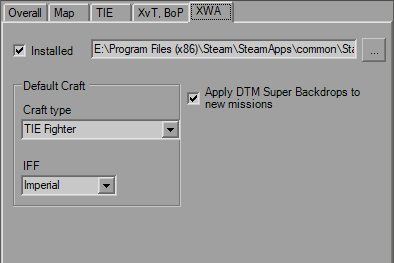
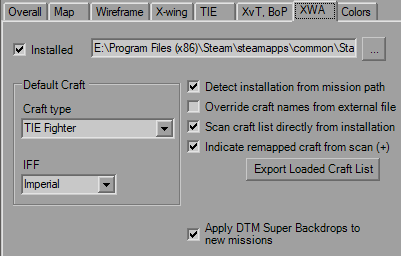
help file stuff

Changed region(s): [[0.0, 0.0, 1.0, 1.0], [0.4569, 0.8438, 0.9137, 0.9688], [0.0305, 0.1562, 0.1827, 0.2188]]

diff --git a/help file/pages/main/opt.html b/help file/pages/main/opt.html
@@ -8,6 +8,7 @@
 <ul>
 <li><a href="#overall">Overall</a>
 <li><a href="#map">Map</a>
+<li><a href="#wireframe">Wireframe</a>
 <li><a href="#xw">Xwing</a>
 <li><a href="#tie">TIE</a>
 <li><a href="#xvt">XvT/BoP</a>
@@ -21,7 +22,7 @@ This is where you control some of the defaults and global settings used in YOGEM
 <h3><a name="overall" class="anchor">Overall</a></h3>
 This tab is for YOGEME global behaviours. The <i>Startup</i> panel on the left defines if you see the initial windows to select a platform (default) or launch directly into whichever platform/mission you had open last. If launching the mission doesn't work, it will try launch the last platform.<br><br>
 
-The checkboxes all default to checked. The first one will disable editing on a platform if it's not installed, since you can't test what you don't have, so I intentionally discourage you from touching it. In the event that you have none of the platforms installed, this will automatically uncheck the first time you run YOGEME and you can edit everything. YOGEME will detect normal installations as well as those on 64-bit systems up to Windows 10 using the MSI installers from <a href="http://www.markusegger.at/Software/Games.aspx">Markus Egger</a>, as well as Steam installations.<br><br>
+The checkboxes all default to checked. The first one will disable editing on a platform if it's not installed, since you can't test what you don't have, so I intentionally discourage you from touching it. In the event that you have none of the platforms installed, this will automatically uncheck the first time you run YOGEME and you can edit everything. YOGEME will detect normal installations as well as those on 64-bit systems up to Windows 10 using the MSI installers from <a href="http://www.markusegger.at/Software/Games.aspx">Markus Egger</a>and Steam installations.<br><br>
 
 The next two boxes are your typical annoying "Are you sure you want to?" boxes that I'm betting you'll disable anyway. The <i>Verify</i> box and field at the bottom will decide if the mission will be run through my MissionVerify program every time you save. If you don't want this, that's fine, you can run it from the toolbar and menu whenever you want. If you have something else that you want to screen your missions, you can stick anything here you want, really. What my MissionVerify does is checks the file for common errors and other issues that can render it unplayable or unwinnable. Examples are Global Goals with "* AND FALSE" set, no player craft, mission limits exceeded (which shouldn't be an issue here), no briefing (not required, but you should), etc. It'll give you a list of warnings and errors and you can fix/ignore what you will. Made it for easy checking of missions submitted to the GE but also a good check for anyone making missions.<br><br>
 
@@ -31,7 +32,11 @@ The last two check boxes were added in v1.3. One simply uses the Recent Director
 
 <h3><a name="map" class="anchor">Map</a></h3>
 <p align=center><img src="../../images/Opt-Map.png"></p>
-A couple options that can be set at the Map Dialog, but set for defaults here.<br>
+A couple options that can be set at the Map Dialog, but set for defaults here. The Zoom setting is the percentage of the current zoom level that increments when using the mousewheel.<br>
+
+<h3><a name="wireframe" class="anchor">Wireframe</a></h3>
+<p align=center><img src="../../images/Opt-wireframe.png"></p>
+New in 1.7 is the ability to display wireframes in the Map, so along with that are several ways to control it. There's the overall enable/disable option to start, then two options that control how small items are shown. The first one will display the craft icon instead of loading the wireframe if the ship is below the given size, and the second one is the smallest that a mesh will be drawn before it becomes a fixed size and is treated like an icon. To the right of that is a list of all mesh types than can be displayed. I would suggest not changing these, as the default include all of the major structures but remove small meshed such as weapons and other systems. While it would be more detailed, it would be slower and each model would appear more cluttered. If you do decide to mess with it, there's a button to restore the default selections.<br><br>
 
 <h3><a name="xw" class="anchor">Xwing</a></h3>
 <p align=center><img src="../../images/Opt-XW.png"></p>
@@ -41,7 +46,9 @@ Same as TIE.<br>
 <p align=center><img src="../../images/Opt-TIE.png"></p>
 The platform tabs primarily exist to control the default new FlightGroup and the platform installation directory. You can fake platform installations if you have the appropriate support files in the correct directory structure at this location (like BATTLE#.LFD files and the required files to support the galaxy image). If you do this, YOGEME will not be able to auto-detect the fake install should your settings be reset.<br><br>
 
-If you are using a custom shiplist, they will also be reflected here.<br>
+If you are using a custom shiplist, they will also be reflected here.<br><br>
+
+The "Detect installation" option for each platform will have YOGEME assume the mission file is in a valid MISSION (or appropriate) directory for the platform, and use that location to attempt loading the wireframes in the Map. The "Override" option loads the external "craft_data_*.txt" files for craft information.<br><br>
 
 <h3><a name="xvt" class="anchor">XvT/BoP</a></h3>
 <p align=center><img src="../../images/Opt-XvT.png"></p>
@@ -49,7 +56,7 @@ Same as TIE, but adds in the additional briefing waypoints you can activate by d
 
 <h3><a name="xwa" class="anchor">XWA</a></h3>
 <p align=center><img src="../../images/Opt-XWA.png"></p>
-The only special item here is the option to automatically apply DTM Super Backdrops to missions by default. This will only be available if the installation of DSB is detected.<br>
+Two new options, the "Scan" option will read the installation itself for the installed craft, helpful for detected mods. The option following that will mark modded craft with a "+" in lists, followed by a button to export the currently installed craft list. There is also the option to automatically apply DTM Super Backdrops to missions by default. This will only be available if the installation of DSB is detected.<br>
 
 <h3><a name="clr" class="anchor">Colors</a></h3>
 <p align=center><img src="../../images/Opt-colors.png"></p>

diff --git a/help file/pages/main/map.html b/help file/pages/main/map.html
@@ -8,12 +8,16 @@
 <p align=center><img src="../../images/Map.png"></p>
 The Map Dialog is the visual interface of placing FlightGroup Waypoints.  From here start locations, flight paths and the briefing locations can be viewed and moved. This is one of the few resizable windows in YOGEME, it can also be maximized for better viewing.<br><br>
 
-By default, only the first Start Point will be visible when you open the map. Additional waypoints can be set in the <a href="opt.html">Options Dialog</a> as defaults.  Icons are color-coded according to their IFF and are <u>not</u> size-relative. On this map an ISD looks the same size as a TIE, so check placements in-game.  The initial view will be <i>X-Y</i> top view, the upper right will allow you to view from the "side" and "front" of the mission space.  Use the checkboxes on the right-hand side to show/hide additional waypoints. Selecting the <i>BRF</i> waypoint (not available in XWA) will hide all others. The disabled checkboxes will activate according to platform.<br><br>
+By default, only the first Start Point will be visible when you open the map. Additional waypoints can be set in the <a href="opt.html">Options Dialog</a> as defaults.  Craft are color-coded according to their IFF and wireframes are shown at their correct size/orientation unless it would be too small and it falls below a threshold that can also be set in the Options dialog. Another option can set small craft below a certain size to also display as icons instead of wireframe.  Additional colors are used on larger models for meshes designated as Hangars (white) or Docking/Landing Platforms (yellow) with an example below.<br>
+<p align=center><img src="../../images/Map-Mesh.png"></p>
+
+The initial view will be <i>X-Y</i> top view, the upper right will allow you to view from the "side" and "front" of the mission space.  Use the checkboxes on the right-hand side to show/hide additional waypoints. Selecting the <i>BRF</i> waypoint (not available in XWA) will hide all others. The disabled checkboxes will activate according to platform. If the view is too cluttered, you can select a Flightgroup on the left to hide it, or left-click the icon/wireframe (or box select) and select it in the popup.<br>
+<p align=center><img src="../../images/Map-Hide.png"></p>
 
 To move around the map, right-click and drag.  The mouse wheel will zoom the map in and out in addition to the slider. Middle-click will reset the map to default location (0, 0) and zoom (40). Click and drag an icon/WP to move it. The coordinates of your mouse pointer updates as you move over the map.<BR>
 Hit the "Help" button for more control details, as well as the usage of the filters to show/hide Flightgroups.<BR>
 
 <p align=center><img src="../../images/Map-Trace.png"></p>
-The image above shows the Traces ability. This will connect all enabled WPs. Solid lines connect <i>SP1</i> to the waypoints, and a dashed line connects the last WP used to the <i>HYP</i> point. Unselecting the <i>Tags</i> of <i>Distance</i> checkboxes hide the words near icons and waypoints.
+The image above shows the Traces ability. This will connect all enabled WPs. Solid lines connect <i>SP1</i> to the waypoints, and a dashed line connects the last WP used to the <i>HYP</i> point. Unselecting the <i>Tags</i> or <i>Distance</i> checkboxes hide the words near icons and waypoints.
 </body>
 </html>

diff --git a/help file/pages/main/forms.html b/help file/pages/main/forms.html
@@ -8,7 +8,7 @@
 <p align=center><img src="../../images/Forms.png"></p>
 Each formation is shown from two different views with TIE Interceptors so you can understand its orientation. The bottom view in the image above is the TOP view, as are all views with those icons. That makes the other view the REAR. Different formations have different views depending on how the craft are laid out.<br><br>
 
-TIE has less formations than XvT and XWA, so while the dialog is the same for both, you will have less options for TIE. Some formations are also a little different between platforms, so both will be shown for comparison. As the note at the bottom states, this is with FG.LeaderSpacing = 0 and FG.FormationSpacing=2 (defaults). The craft are all numbered up to six (the YOGEME limit) so you can see how they're added in as you increase the number of craft.<br><br>
+TIE has less formations than XvT and XWA, so while the dialog is the same for both, you will have less options for TIE. Some formations are also a little different between platforms, so both will be shown for comparison. As the note at the bottom states, this is with FG.LeaderSpacing = 0 and FG.FormationSpacing=2 (defaults). The craft are all numbered up to six so you can see how they're added in as you increase the number of craft.<br><br>
 
 Selecting <i>OK</i> will choose that formation and update the FlightGroup-Craft tab<br>
 </body>
